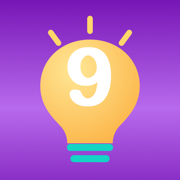
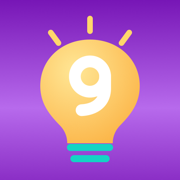
Sons, confettis, 9 centré et espacement des écrans
- Sons synthétisés : tic-tac sur les 10 dernières secondes, buzzer de fin,
  ding à chaque réponse validée, buzzer grave pour la bombe.
- Confettis et trophée animé sur l'écran de victoire.
- Le 9 de l'ampoule (logo + icône) est dessiné en tracé et centré.
- Les blocs ne collent plus à la bande sous l'en-tête (5,5 ou 9,8 comme l'original).

Changed region(s): [[0.3611, 0.25, 0.6389, 0.6667]]

diff --git a/app.js b/app.js
@@ -9,6 +9,38 @@ const save = (k, v) => { try { localStorage.setItem(k, JSON.stringify(v)); retur
 const vibrate = ms => { try { navigator.vibrate && navigator.vibrate(ms); } catch {} };
 const clone = o => JSON.parse(JSON.stringify(o));
 
+/* ============ sonidos (sintetizados, sin archivos) ============ */
+const Snd = (() => {
+  let ctx = null;
+  const get = () => {
+    try {
+      if (!ctx) { const AC = window.AudioContext || window.webkitAudioContext; if (AC) ctx = new AC(); }
+      if (ctx && ctx.state === 'suspended') ctx.resume();
+    } catch {}
+    return ctx;
+  };
+  const tone = (freq, dur, type, vol, when, freqEnd) => {
+    const c = get(); if (!c) return;
+    const t0 = c.currentTime + (when || 0);
+    const o = c.createOscillator(), g = c.createGain();
+    o.type = type;
+    o.frequency.setValueAtTime(freq, t0);
+    if (freqEnd) o.frequency.exponentialRampToValueAtTime(freqEnd, t0 + dur);
+    g.gain.setValueAtTime(0.0001, t0);
+    g.gain.exponentialRampToValueAtTime(vol, t0 + 0.012);
+    g.gain.exponentialRampToValueAtTime(0.0001, t0 + dur);
+    o.connect(g); g.connect(c.destination);
+    o.start(t0); o.stop(t0 + dur + 0.03);
+  };
+  return {
+    unlock: get,
+    ding: () => { tone(880, 0.14, 'sine', 0.32); tone(1320, 0.22, 'sine', 0.3, 0.09); },
+    tick: urgent => tone(urgent ? 1500 : 1100, 0.055, 'square', urgent ? 0.2 : 0.13),
+    buzzer: () => { tone(140, 0.95, 'sawtooth', 0.38); tone(147, 0.95, 'square', 0.22); },
+    bomb: () => { tone(230, 0.24, 'sawtooth', 0.38, 0, 90); tone(170, 0.42, 'sawtooth', 0.38, 0.2, 60); },
+  };
+})();
+
 function toast(msg) {
   document.querySelectorAll('.toast').forEach(t => t.remove());
   const t = document.createElement('div');
@@ -72,7 +104,7 @@ const LOGO = `
     <defs><radialGradient id="bg" cx=".35" cy=".3" r=".85"><stop offset="0" stop-color="#ffe796"/><stop offset="1" stop-color="#fbb040"/></radialGradient></defs>
     <g stroke="#f9b233" stroke-width="6" stroke-linecap="round"><path d="M100 6v16M50 24l9 12M150 24l-9 12"/></g>
     <path d="M100 40c-33 0-58 23-58 53 0 21 11 34 22 45 6 6 9 13 9 21h54c0-8 3-15 9-21 11-11 22-24 22-45 0-30-25-53-58-53z" fill="url(#bg)"/>
-    <text x="100" y="122" text-anchor="middle" font-family="Quicksand,sans-serif" font-weight="700" font-size="92" fill="#fff">9</text>
+    <g fill="none" stroke="#fff" stroke-width="14" stroke-linecap="round" stroke-linejoin="round"><circle cx="100" cy="82" r="18"/><path d="M118 82v14c0 15-10 25-28 26"/></g>
     <rect x="68" y="166" width="64" height="9" rx="4.5" fill="#14d4c4"/><rect x="72" y="180" width="56" height="9" rx="4.5" fill="#14d4c4"/><rect x="82" y="194" width="36" height="9" rx="4.5" fill="#14d4c4"/>
   </svg>
   <div class="q" style="font-size:12.4rem;font-weight:700;line-height:1;background:linear-gradient(90deg,#f42464 0%,#fbb040 100%);-webkit-background-clip:text;background-clip:text;color:transparent;letter-spacing:.2rem">Adivinueve</div>`;
@@ -170,8 +202,42 @@ function refreshCur() {
 
 /* ============ pantallas: base ============ */
 function show(html) {
+  const c = document.getElementById('confetti'); if (c) c.remove();
   $app.innerHTML = html;
   window.scrollTo(0, 0);
+}
+
+function confetti() {
+  if (window.matchMedia && matchMedia('(prefers-reduced-motion: reduce)').matches) return;
+  const cv = document.createElement('canvas');
+  cv.id = 'confetti';
+  cv.style.cssText = 'position:fixed;inset:0;width:100%;height:100%;pointer-events:none;z-index:40';
+  document.body.appendChild(cv);
+  const dpr = Math.min(2, window.devicePixelRatio || 1);
+  const W = cv.width = Math.round(window.innerWidth * dpr), H = cv.height = Math.round(window.innerHeight * dpr);
+  const ctx = cv.getContext('2d');
+  const cols = ['#fbb040', '#14d4c4', '#f42464', '#54b4fc', '#ffffff', '#ffd66b', '#ac54ec'];
+  const parts = Array.from({ length: 150 }, () => ({
+    x: Math.random() * W, y: -Math.random() * H * 0.7,
+    w: (6 + Math.random() * 8) * dpr, h: (10 + Math.random() * 10) * dpr,
+    vx: (Math.random() - 0.5) * 2 * dpr, vy: (2.2 + Math.random() * 3.6) * dpr,
+    rot: Math.random() * 6.28, vr: (Math.random() - 0.5) * 0.3, sw: Math.random() * 6.28,
+    c: cols[(Math.random() * cols.length) | 0],
+  }));
+  const t0 = performance.now();
+  const frame = now => {
+    if (!document.body.contains(cv)) return;
+    const t = now - t0;
+    ctx.clearRect(0, 0, W, H);
+    parts.forEach(p => {
+      p.sw += 0.05; p.x += p.vx + Math.sin(p.sw) * dpr; p.y += p.vy; p.rot += p.vr;
+      ctx.save(); ctx.translate(p.x, p.y); ctx.rotate(p.rot); ctx.fillStyle = p.c;
+      ctx.fillRect(-p.w / 2, -p.h / 2, p.w, p.h); ctx.restore();
+      if (p.y > H + 20 && t < 4200) { p.y = -20; p.x = Math.random() * W; }
+    });
+    if (t < 7500) requestAnimationFrame(frame); else cv.remove();
+  };
+  requestAnimationFrame(frame);
 }
 const on = (sel, fn) => { const el = $app.querySelector(sel); if (el) el.onclick = fn; };
 const onAll = (sel, fn) => $app.querySelectorAll(sel).forEach(el => { el.onclick = e => fn(el, e); });
@@ -207,16 +273,16 @@ function screenRules(start) {
   const slides = [
     `<div class="slide"><div class="txt" style="margin-top:12rem"><b>2 JUGADORES</b>son necesarios para jugar</div>${handsIll}
       <div class="card">El juego se juega en <b>un solo celular</b> que pasa de un equipo al otro después de cada turno</div></div>`,
-    `<div class="slide"><div class="card" style="margin-top:6rem;font:700 7.2rem/1.1 'Quicksand',sans-serif;color:#000">Encuentra las<br><b style="font-size:9.6rem">9 RESPUESTAS</b><br>en 60 segundos<div class="bar2"><i></i></div></div>
+    `<div class="slide"><div class="card" style="margin-top:4.5rem;font:700 7.2rem/1.1 'Quicksand',sans-serif;color:#000">Encuentra las<br><b style="font-size:9.6rem">9 RESPUESTAS</b><br>en 60 segundos<div class="bar2"><i></i></div></div>
       <div class="txt" style="margin-top:3rem">¡Cuidado con la respuesta trampa (falsa)!</div>
       <div class="bombs"><div style="width:11rem">${IC.bomb}</div><div style="width:18rem">${IC.bomb}</div><div style="width:11rem">${IC.bomb}</div></div>
       <div class="card" style="margin-top:4rem">El equipo que acumule <b>más puntos</b> gana la partida</div></div>`,
-    `<div class="slide"><div class="card" style="margin-top:6rem;font-size:5rem;line-height:1.5">Cuando es el turno de un equipo, <b>un miembro del equipo contrario</b> toma el celular para leer la pregunta en voz alta y <b>validar</b> las respuestas</div>${handsIll}</div>`,
+    `<div class="slide"><div class="card" style="margin-top:4.5rem;font-size:5rem;line-height:1.5">Cuando es el turno de un equipo, <b>un miembro del equipo contrario</b> toma el celular para leer la pregunta en voz alta y <b>validar</b> las respuestas</div>${handsIll}</div>`,
     `<div class="slide" style="gap:0"><div class="card exa">
         <div class="p t"><div class="nb">1</div><div class="bub">Juan lee la pregunta en voz alta</div><div class="face">😀</div></div>
         <div class="p o" style="flex-direction:row-reverse"><div class="nb" style="left:4rem">2</div><div class="bub">Sofía dice las respuestas en voz alta</div><div class="face" style="margin:0 auto 0 0">🤓</div></div>
         <div class="p t"><div class="nb">3</div><div class="bub">Juan valida las respuestas correctas de Sofía</div><div class="face">📱</div></div></div></div>`,
-    `<div class="slide"><div class="card" style="margin-top:4rem;text-align:left;font-weight:500;font-size:4.2rem">Los comodines sirven para darle sabor al juego.<br><br>Hay 3 comodines en total. Cada uno se puede usar una vez por partida y por equipo, y solo uno por turno: no se pueden juntar.
+    `<div class="slide"><div class="card" style="margin-top:6.5rem;text-align:left;font-weight:500;font-size:4.2rem">Los comodines sirven para darle sabor al juego.<br><br>Hay 3 comodines en total. Cada uno se puede usar una vez por partida y por equipo, y solo uno por turno: no se pueden juntar.
         <div style="display:grid;gap:4rem;margin-top:5rem;font-weight:700">
           <div style="display:flex;align-items:center;gap:4rem"><div class="jk" style="width:20rem;height:20rem;flex:none;box-shadow:0 1rem 0 var(--strip);background:var(--purple)"><b style="color:#fff">+2</b></div>Suma 2 puntos a cada respuesta</div>
           <div style="display:flex;align-items:center;gap:4rem"><div class="jk" style="width:20rem;height:20rem;flex:none;box-shadow:0 1rem 0 var(--strip);background:var(--purple)"><b style="color:#fff">×2</b></div>Multiplica por 2 los puntos de cada respuesta</div>
@@ -276,7 +342,7 @@ function screenThemes() {
   const all = S.themes.length === THEMES.length;
   show(`<div class="screen">
     ${hdr('TEMAS DE PREGUNTAS', backBtn(), '')}
-    <div class="body"><div class="card">
+    <div class="body low"><div class="card">
       <div class="row theme" data-t="*"><div class="lbl">Todos los temas</div><div class="sw ${all ? 'on' : ''}"></div></div>
       ${THEMES.map(t => `<div class="row theme" data-t="${t.id}"><div class="lbl"><span class="em">${t.em}</span>${esc(t.label)}</div><div class="sw ${S.themes.includes(t.id) ? 'on' : ''}"></div></div>`).join('')}
     </div></div></div>`);
@@ -305,7 +371,7 @@ function screenTeams() {
   const taken = new Set(teamCfg.slice(0, i).map(x => x.color));
   show(`<div class="screen">
     ${hdr('EQUIPOS', backBtn(), '')}
-    <div class="body"><div class="card tcard">
+    <div class="body low"><div class="card tcard">
       <div class="cnt">${i + 1}/${S.nTeams}</div>
       <div class="lab">Elige el color del equipo</div>
       <div class="cols">${COLORS.map(c => `<button class="col ${t.color === c ? 'sel' : ''} ${taken.has(c) ? 'taken' : ''}" style="background:${c}" data-c="${c}" aria-label="color"></button>`).join('')}</div>
@@ -373,7 +439,7 @@ function screenIntro() {
     <div class="hold">${IC.hold}<p>${teamTxt(holder)} tiene el celular.<br>${teamTxt(team)} responde la pregunta.</p></div>
   </div>`);
   on('#quit', confirmQuit);
-  on('#go', screenPlay);
+  on('#go', () => { Snd.unlock(); screenPlay(); });
   on('#edq', () => editQuestion(G.cur.qid, () => { refreshCur(); screenIntro(); }));
   on('#jp', () => toggleJoker('plus'));
   on('#jm', () => toggleJoker('mult'));
@@ -415,12 +481,12 @@ function tapAnswer(el) {
     c.trapHit = !c.trapHit;
     el.classList.remove('hit'); void el.offsetWidth;
     el.classList.toggle('hit', c.trapHit);
-    if (c.trapHit) vibrate([60, 40, 90]);
+    if (c.trapHit) { vibrate([60, 40, 90]); Snd.bomb(); }
     return;
   }
   if (c.found.has(i)) { c.found.delete(i); el.classList.remove('on'); }
   else {
-    c.found.add(i); el.classList.add('on'); vibrate(20);
+    c.found.add(i); el.classList.add('on'); vibrate(20); Snd.ding();
     if (c.found.size === realCount(c)) setTimeout(() => { if (timer) finishTurn(); }, 600);
   }
 }
@@ -435,10 +501,13 @@ function startTimer() {
     const fill = document.getElementById('fill');
     if (!fill) { stopTimer(); return; }
     const sec = Math.ceil(left);
-    if (sec !== shown) { shown = sec; document.getElementById('lcd').innerHTML = lcd(sec); }
+    if (sec !== shown) {
+      shown = sec; document.getElementById('lcd').innerHTML = lcd(sec);
+      if (sec >= 1 && sec <= 10) Snd.tick(sec <= 3);
+    }
     fill.style.width = (left / DURATION * 100) + '%';
     document.getElementById('bar').classList.toggle('low', left <= 10);
-    if (left <= 0) finishTurn();
+    if (left <= 0) { Snd.buzzer(); finishTurn(); }
   };
   timer = setInterval(tick, 200);
 }
@@ -493,8 +562,8 @@ function screenEnd() {
   show(`<div class="screen">
     ${hdr('RESULTADO', '', '', 'center')}
     <div class="body" style="padding-top:0">
-      <div class="rtitle" style="justify-content:center;font-size:6rem;height:24rem;padding-top:2rem;text-align:center;flex-direction:column;gap:1.6rem">
-        <span style="font-size:9rem">🏆</span><span>${winners.length > 1 ? '¡Empate!' : esc(winners[0].name) + ' gana'}</span></div>
+      <div class="rtitle" style="justify-content:center;font-size:6rem;height:31rem;padding-top:6rem;text-align:center;flex-direction:column;gap:1.6rem">
+        <span class="trophy" style="font-size:9rem">🏆</span><span>${winners.length > 1 ? '¡Empate!' : esc(winners[0].name) + ' gana'}</span></div>
       ${sorted.map(t => `<div class="sc" style="--c:${t.color}"><div class="n">${esc(t.name)}</div>
         <div class="l"><div class="tr"><i style="width:${Math.max(0, t.score) / max * 100}%"></i></div><div class="v">${t.score} PTS</div></div></div>`).join('')}
       <div style="flex:1"></div>
@@ -503,6 +572,7 @@ function screenEnd() {
     </div></div>`);
   on('#again', () => { G = null; screenSettings(); });
   on('#home', screenHome);
+  confetti();
 }
 
 /* ============ editor de preguntas ============ */

diff --git a/index.html b/index.html
@@ -66,7 +66,8 @@ svg{display:block}
 .hdr h1{font:700 5.7rem/1 'Quicksand',sans-serif;color:var(--purple);text-transform:uppercase;flex:1;white-space:nowrap;overflow:hidden;text-overflow:ellipsis;padding-bottom:.4rem}
 .hdr.center h1{text-align:center}
 .hdr .circ{margin-bottom:.1rem}
-.body{padding:3.2rem 0 0;display:flex;flex-direction:column;flex:1}
+.body{padding:8.7rem 0 0;display:flex;flex-direction:column;flex:1}
+.body.low{padding-top:13rem}
 
 /* ---------- cartes blanches ---------- */
 .card{background:#fff;color:#000;border-radius:4.2rem;margin:0 3.5rem;box-shadow:0 1.2rem 0 var(--strip);position:relative}
@@ -75,7 +76,7 @@ svg{display:block}
 .row:first-child{border-top:0}
 .row .lbl{flex:1;display:flex;align-items:center;gap:1.6rem}
 .row .lbl small{display:block;font-size:2.4rem;color:#8a5bb0;font-weight:500;text-transform:none;margin-top:.5rem}
-.info{width:4.2rem;height:4.2rem;border-radius:50%;background:var(--field);color:#fff;font:700 2.8rem/4.2rem 'Quicksand',sans-serif;text-align:center;align-self:flex-start;margin-top:3.2rem}
+.info{text-transform:none;width:4.2rem;height:4.2rem;border-radius:50%;background:var(--field);color:#fff;font:700 2.8rem/4.2rem 'Quicksand',sans-serif;text-align:center;align-self:flex-start;margin-top:3.2rem}
 .step{display:flex;align-items:center;gap:2.4rem}
 .step .b{width:5.2rem;height:5.2rem;border-radius:50%;border:.4rem solid #8f8f8f;display:grid;place-items:center;color:#8f8f8f}
 .step .b.plus{border-color:#000;color:#000}
@@ -152,7 +153,9 @@ svg{display:block}
 .hold p{font:700 3.4rem/1.6 'Roboto',sans-serif;text-transform:uppercase}
 
 /* ---------- scores ---------- */
-.rtitle{display:flex;justify-content:space-between;align-items:center;padding:6.7rem 3.5rem 0;font:700 5rem/1 'Quicksand',sans-serif;text-transform:uppercase;height:18rem}
+.rtitle{display:flex;justify-content:space-between;align-items:center;padding:9.9rem 3.5rem 0;font:700 5rem/1 'Quicksand',sans-serif;text-transform:uppercase;height:21.2rem}
+.trophy{display:inline-block;animation:trophy 1.1s cubic-bezier(.2,1.4,.4,1) both}
+@keyframes trophy{0%{transform:scale(.2) rotate(-25deg);opacity:0}100%{transform:scale(1) rotate(0);opacity:1}}
 .rtitle .d{color:#fff}
 .sc{margin:0 3.3rem;background:#fff;color:#000;border-radius:4.2rem;box-shadow:0 1.2rem 0 #c396e9;height:19.5rem;padding:3rem 3.2rem 0}
 .sc+.sc{margin-top:5.8rem}
@@ -192,7 +195,7 @@ svg{display:block}
 /* ---------- règles (carrousel) ---------- */
 .slides{display:flex;overflow-x:auto;scroll-snap-type:x mandatory;scrollbar-width:none;flex:1}
 .slides::-webkit-scrollbar{display:none}
-.slide{flex:none;width:92.4rem;scroll-snap-align:center;padding:0 4rem;display:flex;flex-direction:column;gap:5rem}
+.slide{flex:none;width:92.4rem;scroll-snap-align:center;padding:3.2rem 4rem 0;display:flex;flex-direction:column;gap:5rem}
 .slide .card{margin:0;padding:4.4rem 4.2rem;font:400 4.4rem/1.5 'Roboto',sans-serif;text-align:center}
 .slide .card b{color:var(--purple);font-weight:700}
 .slide .big{font:700 11rem/1 'Quicksand',sans-serif;color:var(--teal)}

diff --git a/sw.js b/sw.js
@@ -1,4 +1,4 @@
-const CACHE = 'adivinueve-v3';
+const CACHE = 'adivinueve-v4';
 const ASSETS = [
   './', './index.html', './app.js', './manifest.json', './icon.svg', './icon-180.png', './icon-512.png',
   './questions/arte.js', './questions/entretenimiento.js', './questions/deportes.js', './questions/historia.js',
